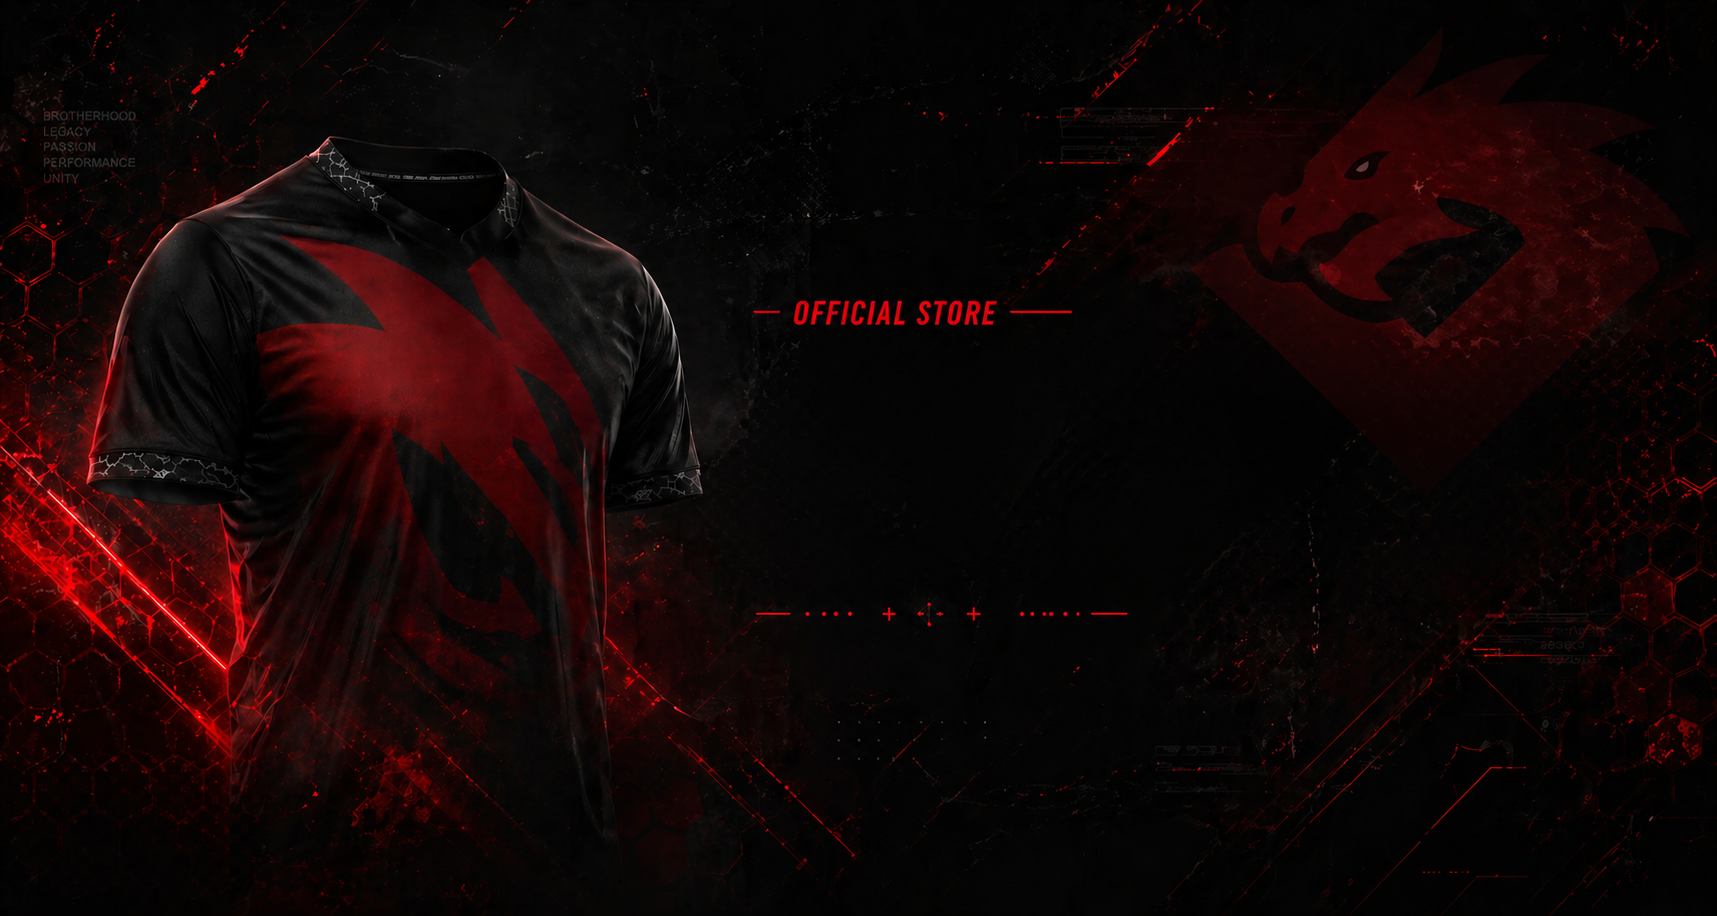
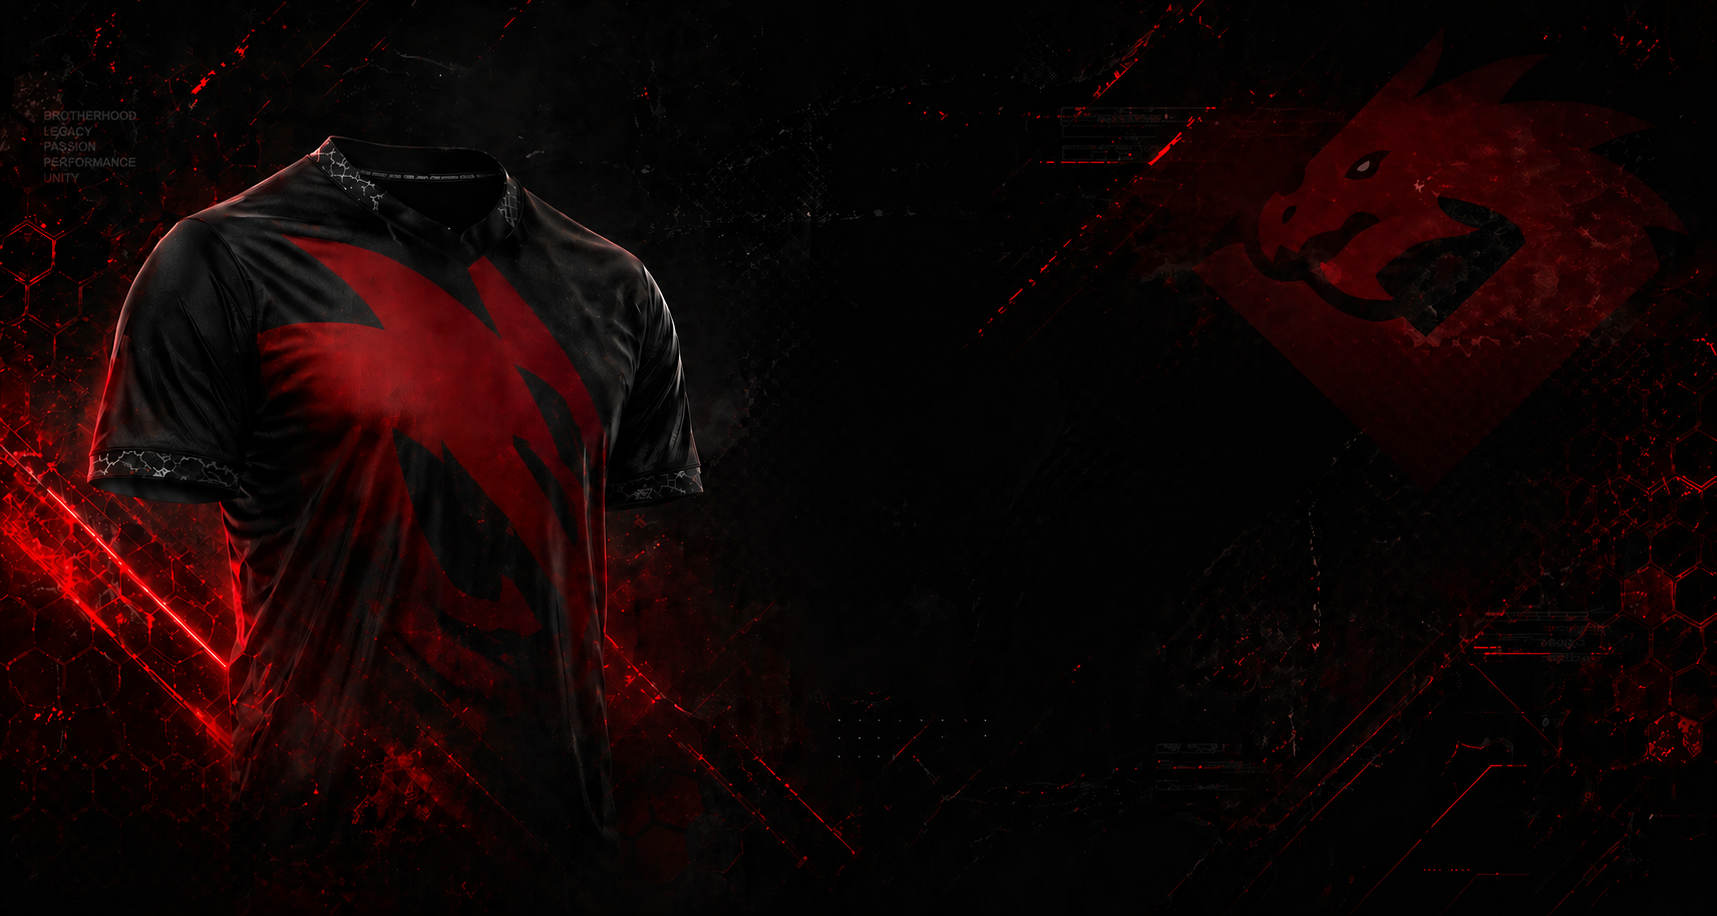
fix: await params in product page and ensure all files are tracked

diff --git a/app/(main)/merch/[id]/page.tsx b/app/(main)/merch/[id]/page.tsx
@@ -16,8 +16,9 @@ async function getProduct(id: string) {
   }
 }
 
-export default async function ProductPage({ params }: { params: { id: string } }) {
-  const product = await getProduct(params.id);
+export default async function ProductPage({ params }: { params: Promise<{ id: string }> }) {
+  const { id } = await params;
+  const product = await getProduct(id);
 
   if (!product) {
     notFound();